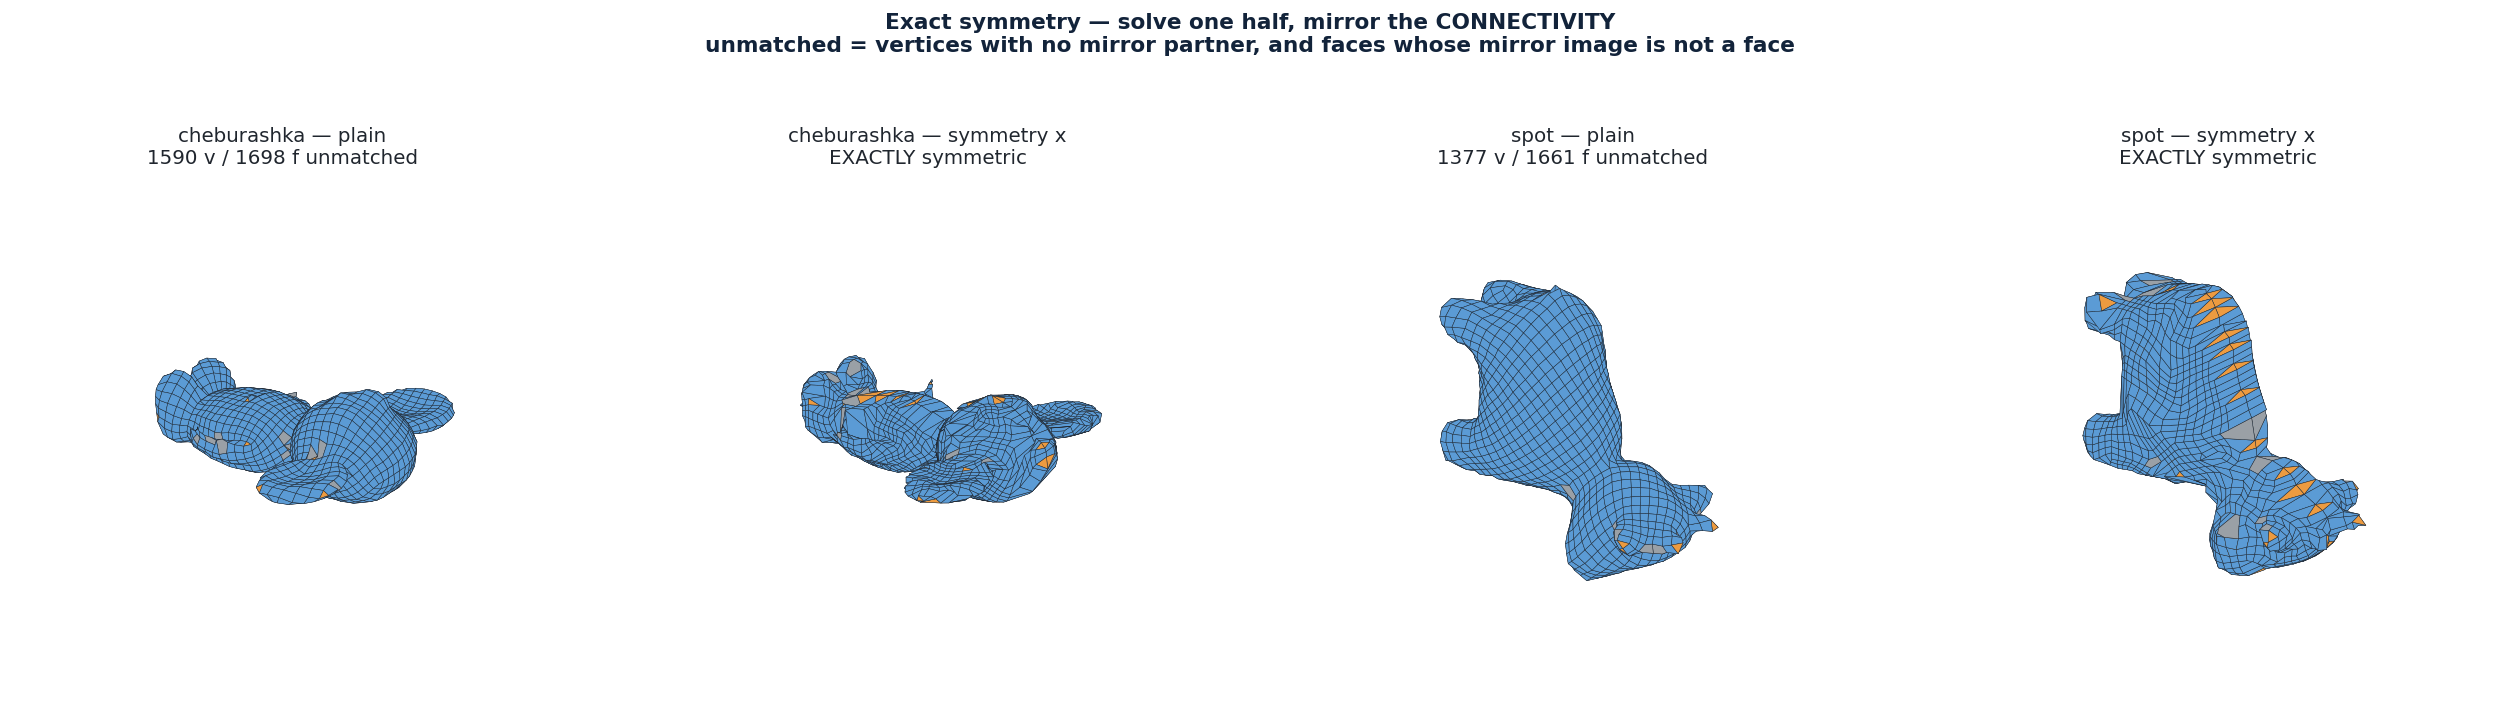
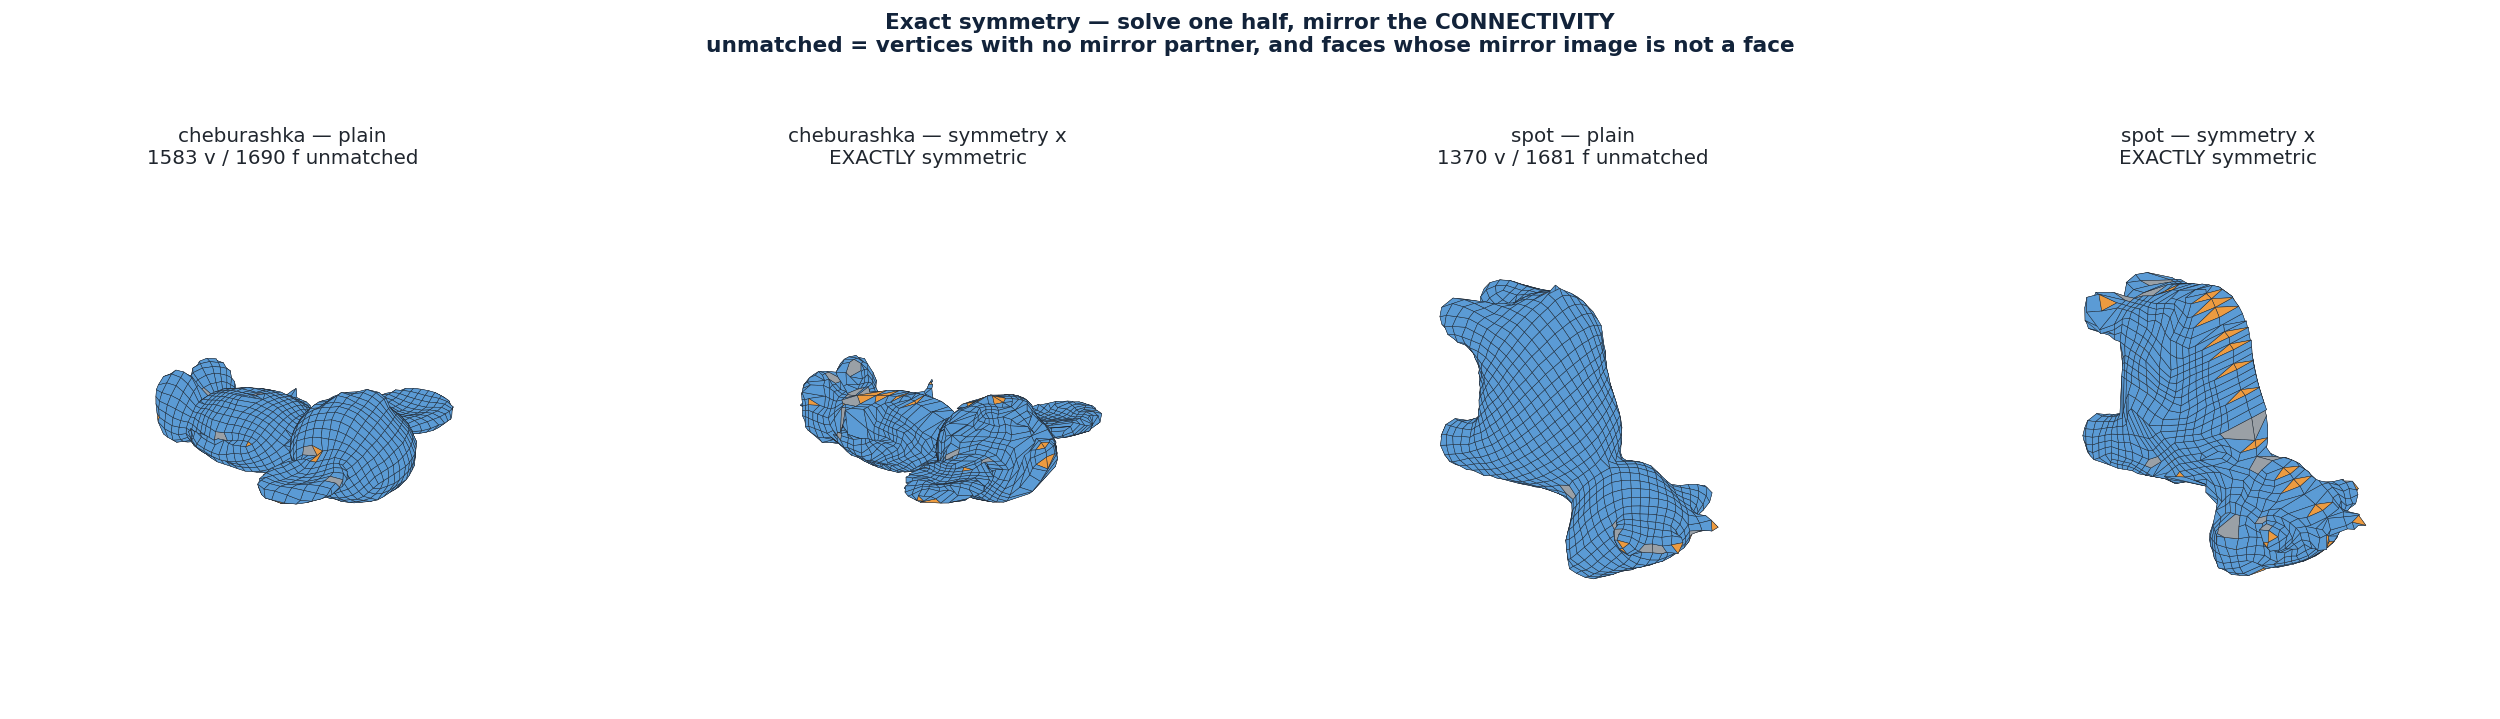
fix(quadrangulate): close the symmetry seam — the mirror was welding surface
--symmetry produced exactly mirrored connectivity but left a few boundary and
non-manifold edges at the seam on some models (cheburashka 3 and 2). tasks.md
recorded the cause as membrane DELETION leaving a hole, and the fix as
collapsing the membrane instead — "mesh-kernel surgery".

That cause is wrong, and implementing the fix it implies would have been inert.
Deleting a membrane cannot leave a defect in the MIRRORED result: every edge the
deletion exposes has both endpoints on the plane (membrane corners are border
vertices, which snapBorderToPlane projected), so mirrorAcross adds the reflected
face onto that same edge and it ends at exactly two faces. The mirror closes the
hole the deletion opens.

The actual cause is one tolerance doing two unrelated jobs. remeshSymmetric
computes `0.35 * meanEdgeLength` — a third of an edge — and passes it to BOTH
isTopologicallySymmetric, where a generous radius is the correct semantics for
matching a vertex to its reflection, AND mirrorAcross, whose first loop snaps
every vertex within it onto the plane. Interior surface that merely came near
the midplane was therefore flattened onto it and welded as centerline instead of
being mirrored.

Split: the centerline is the set snapBorderToPlane actually projected, plus
anything already on the plane within a GEOMETRIC epsilon (1e-5 of the bounding
diagonal, the spirit of splitAtPlane's own default). The third-of-an-edge
tolerance keeps its matching job and loses its seam job.
[…]

diff --git a/src/quadrangulate/src/symmetry_layout.cpp b/src/quadrangulate/src/symmetry_layout.cpp
@@ -236,6 +236,7 @@ BorderSnapReport snapBorderToPlane(Mesh& mesh, const Plane& plane) {
         const Vec3 p = mesh.position(vid);
         report.maxDistance = std::max(report.maxDistance, std::abs(signedDistance(plane, p)));
         mesh.setPosition(vid, projectToPlane(plane, p));
+        report.onPlane.push_back(vid);
         ++report.snapped;
     }
     // Snapping can pull a face ENTIRELY into the plane when all of its corners
@@ -268,25 +269,12 @@ BorderSnapReport snapBorderToPlane(Mesh& mesh, const Plane& plane) {
     return report;
 }
 
-MirrorReport mirrorAcross(Mesh& mesh, const Plane& plane, float tolerance) {
-    MirrorReport report;
-    if (length(plane.normal) < 1e-12f || mesh.faceCapacity() == 0) {
-        return report;
-    }
-    // Snap first, so "on the plane" is a decidable property rather than a
-    // floating-point coincidence. Everything below depends on it.
-    for (Index v = 0; v < mesh.vertexCapacity(); ++v) {
-        const VertexId vid{v};
-        if (!mesh.isAlive(vid)) {
-            continue;
-        }
-        const Vec3 p = mesh.position(vid);
-        if (std::abs(signedDistance(plane, p)) <= tolerance) {
-            mesh.setPosition(vid, projectToPlane(plane, p));
-            ++report.weldedCenterline;
-        }
-    }
+namespace {
 
+// The shared body. `onPlane` has already been decided by the caller and every
+// vertex in it has already been projected; everything else gets a twin.
+MirrorReport mirrorWithCenterline(Mesh& mesh, const Plane& plane, const std::vector<char>& onPlane,
+                                  MirrorReport report) {
     // A twin for every off-plane vertex; on-plane vertices are their own twin,
     // which is exactly what welds the seam.
     std::unordered_map<Index, VertexId> twin;
@@ -299,7 +287,7 @@ MirrorReport mirrorAcross(Mesh& mesh, const Plane& plane, float tolerance) {
     }
     for (const VertexId vid : original) {
         const Vec3 p = mesh.position(vid);
-        if (std::abs(signedDistance(plane, p)) <= tolerance) {
+        if (vid.value < onPlane.size() && onPlane[vid.value] != 0) {
             twin.emplace(vid.value, vid);
             continue;
         }
@@ -342,6 +330,100 @@ MirrorReport mirrorAcross(Mesh& mesh, const Plane& plane, float tolerance) {
     }
     report.valid = true;
     return report;
+}
+
+// "Exactly on the plane" as a geometric tolerance, scaled to the mesh so it does
+// not depend on modelling units. Matches splitAtPlane's own 1e-5f default in
+// spirit: it admits floating-point noise from projection and nothing else.
+float planeEpsilon(const Mesh& mesh) {
+    Vec3 lo{kInf, kInf, kInf};
+    Vec3 hi{-kInf, -kInf, -kInf};
+    bool any = false;
+    for (Index v = 0; v < mesh.vertexCapacity(); ++v) {
+        const VertexId vid{v};
+        if (!mesh.isAlive(vid)) {
+            continue;
+        }
+        const Vec3 p = mesh.position(vid);
+        lo = {std::min(lo.x, p.x), std::min(lo.y, p.y), std::min(lo.z, p.z)};
+        hi = {std::max(hi.x, p.x), std::max(hi.y, p.y), std::max(hi.z, p.z)};
+        any = true;
+    }
+    if (!any) {
+        return 1e-5f;
+    }
+    return std::max(1e-6f, 1e-5f * length(hi - lo));
+}
+
+// Mark every vertex within `tolerance` of the plane, projecting it exactly onto
+// the plane first so membership is decidable rather than a float coincidence.
+std::vector<char> centerlineByDistance(Mesh& mesh, const Plane& plane, float tolerance,
+                                       std::size_t& welded) {
+    std::vector<char> onPlane(mesh.vertexCapacity(), 0);
+    for (Index v = 0; v < mesh.vertexCapacity(); ++v) {
+        const VertexId vid{v};
+        if (!mesh.isAlive(vid)) {
+            continue;
+        }
+        const Vec3 p = mesh.position(vid);
+        if (std::abs(signedDistance(plane, p)) <= tolerance) {
+            mesh.setPosition(vid, projectToPlane(plane, p));
+            onPlane[v] = 1;
+            ++welded;
+        }
+    }
+    return onPlane;
+}
+
+}  // namespace
+
+MirrorReport mirrorAcross(Mesh& mesh, const Plane& plane, float tolerance) {
+    MirrorReport report;
+    if (length(plane.normal) < 1e-12f || mesh.faceCapacity() == 0) {
+        return report;
+    }
+    const std::vector<char> onPlane =
+        centerlineByDistance(mesh, plane, tolerance, report.weldedCenterline);
+    return mirrorWithCenterline(mesh, plane, onPlane, report);
+}
+
+MirrorReport mirrorAcross(Mesh& mesh, const Plane& plane, const std::vector<VertexId>& onPlane) {
+    MirrorReport report;
+    if (length(plane.normal) < 1e-12f || mesh.faceCapacity() == 0) {
+        return report;
+    }
+    std::vector<char> mask(mesh.vertexCapacity(), 0);
+    for (const VertexId vid : onPlane) {
+        if (vid.value < mask.size() && mesh.isAlive(vid)) {
+            mask[vid.value] = 1;
+            ++report.weldedCenterline;
+        }
+    }
+    // The caller's set is the vertices it SNAPPED, which is the border. A vertex
+    // can also sit on the plane without being on the border — the extraction is
+    // free to place one there — and duplicating that one instead of welding it
+    // leaves its twin unpaired (measured: 4 unmatched faces on a procedural
+    // sphere when the set was used alone).
+    //
+    // So the membership test stays, but at a GEOMETRIC epsilon rather than the
+    // caller's weld tolerance. That distinction is the whole point: a third of
+    // an edge is the right radius for MATCHING a vertex to its reflection and
+    // far too coarse for deciding what the seam is, and conflating the two is
+    // what flattened interior surface onto the midplane.
+    const float eps = planeEpsilon(mesh);
+    for (Index v = 0; v < mesh.vertexCapacity(); ++v) {
+        const VertexId vid{v};
+        if (!mesh.isAlive(vid) || mask[v] != 0) {
+            continue;
+        }
+        const Vec3 p = mesh.position(vid);
+        if (std::abs(signedDistance(plane, p)) <= eps) {
+            mesh.setPosition(vid, projectToPlane(plane, p));
+            mask[v] = 1;
+            ++report.weldedCenterline;
+        }
+    }
+    return mirrorWithCenterline(mesh, plane, mask, report);
 }
 
 bool isTopologicallySymmetric(const Mesh& mesh, const Plane& plane, float tolerance) {
@@ -507,7 +589,13 @@ PipelineResult remeshSymmetric(const Mesh& input, const Parameters& rawParams, S
     // border IS the cut; the drift is reported so a wandering remesh stays
     // visible rather than absorbed.
     const BorderSnapReport snap = snapBorderToPlane(result.mesh, plane);
-    const MirrorReport mirror = mirrorAcross(result.mesh, plane, tolerance);
+    // The centerline is the set snapBorderToPlane just projected, NOT everything
+    // within the weld tolerance. `tolerance` is a third of an edge — the right
+    // radius for MATCHING a vertex to its reflection below, and far too coarse
+    // for deciding what the seam is. Passing it here flattened interior vertices
+    // that merely came near the midplane and welded them instead of mirroring
+    // them, which is what left the seam residue.
+    const MirrorReport mirror = mirrorAcross(result.mesh, plane, snap.onPlane);
     recountStats(result.mesh, result.stats);
     if (report != nullptr) {
         report->borderSnapped = snap.snapped;

diff --git a/src/quadrangulate/include/cyber/quadrangulate/symmetry_layout.hpp b/src/quadrangulate/include/cyber/quadrangulate/symmetry_layout.hpp
@@ -2,6 +2,7 @@
 
 #include <cstddef>
 #include <cstdint>
+#include <vector>
 
 #include "cyber/core/mesh.hpp"
 #include "cyber/core/pipeline.hpp"
@@ -75,6 +76,10 @@ struct SymmetrySplit {
 struct BorderSnapReport {
     std::size_t snapped = 0;
     float maxDistance = 0.0f;
+    // Exactly the vertices this projected onto the plane. Handed to
+    // mirrorAcross so "on the plane" is a KNOWN set rather than a distance
+    // test — see the overload below for why that distinction matters.
+    std::vector<VertexId> onPlane;
     // Faces the snap pulled ENTIRELY into the plane. Those are membranes, not
     // surface — in the mirrored result they would sit inside the model as an
     // internal wall — so they are removed.
@@ -98,6 +103,23 @@ struct MirrorReport {
 // `tolerance` of the plane are snapped exactly onto it first, so "on the plane"
 // is a decidable property rather than a floating-point coincidence.
 MirrorReport mirrorAcross(Mesh& mesh, const Plane& plane, float tolerance = 1e-5f);
+
+// Mirror using a KNOWN centerline instead of a distance test.
+//
+// The tolerance overload decides "on the plane" by measuring, which is fine
+// when the caller has no better information and wrong when it does. After
+// snapBorderToPlane the caller knows exactly which vertices were projected, and
+// re-deriving that set by distance is not merely redundant — it is a different,
+// larger set. remeshSymmetric was passing 0.35 * mean edge length (the weld
+// tolerance it needs for isTopologicallySymmetric), so every INTERIOR vertex
+// that happened to lie within a third of an edge of the midplane was flattened
+// onto it and then treated as its own twin. Those vertices are surface, not
+// centerline: welding them instead of mirroring them is what left the seam
+// residue (cheburashka: 3 boundary and 2 non-manifold edges).
+//
+// Vertices in `onPlane` are shared by both halves; every other vertex gets a
+// reflected twin regardless of how close to the plane it sits.
+MirrorReport mirrorAcross(Mesh& mesh, const Plane& plane, const std::vector<VertexId>& onPlane);
 
 // Whether `mesh` is symmetric across `plane` in CONNECTIVITY: every vertex has a
 // mirror partner and every face's mirror image is also a face. This is the

diff --git a/python/cyberremesh/tests/test_zremesher_gates.py b/python/cyberremesh/tests/test_zremesher_gates.py
@@ -150,8 +150,26 @@ def gate_symmetry_is_exact(cli, work):
         1 for f in faces
         if tuple(sorted(int(partner[i]) for i in f)) not in face_sets)
     assert unmatched_f == 0, "{0} faces have no mirror image".format(unmatched_f)
-    print("PASS: symmetry exact — 0 unmatched vertices, 0 unmatched faces "
-          "over {0} faces".format(len(faces)))
+
+    # Exact symmetry is necessary but not sufficient: the seam also has to be
+    # CLOSED. The mirror used to weld every vertex within a third of an edge of
+    # the midplane — interior surface included — which left boundary and
+    # non-manifold edges at the seam while unmatched v/f stayed at 0. Both
+    # numbers belong in the same gate; asserting only the matching passed
+    # throughout the entire time the seam was open.
+    incidence = {}
+    for f in faces:
+        for i in range(len(f)):
+            a, b = f[i], f[(i + 1) % len(f)]
+            key = (min(a, b), max(a, b))
+            incidence[key] = incidence.get(key, 0) + 1
+    boundary = sum(1 for n in incidence.values() if n == 1)
+    nonmanifold = sum(1 for n in incidence.values() if n > 2)
+    assert boundary == 0 and nonmanifold == 0, (
+        "the seam is not closed: {0} boundary edge(s), {1} non-manifold "
+        "edge(s)".format(boundary, nonmanifold))
+    print("PASS: symmetry exact — 0 unmatched vertices, 0 unmatched faces over "
+          "{0} faces; seam closed (0 boundary, 0 non-manifold)".format(len(faces)))
 
 
 def gate_topology_guide_beats_orientation(cli, work):
